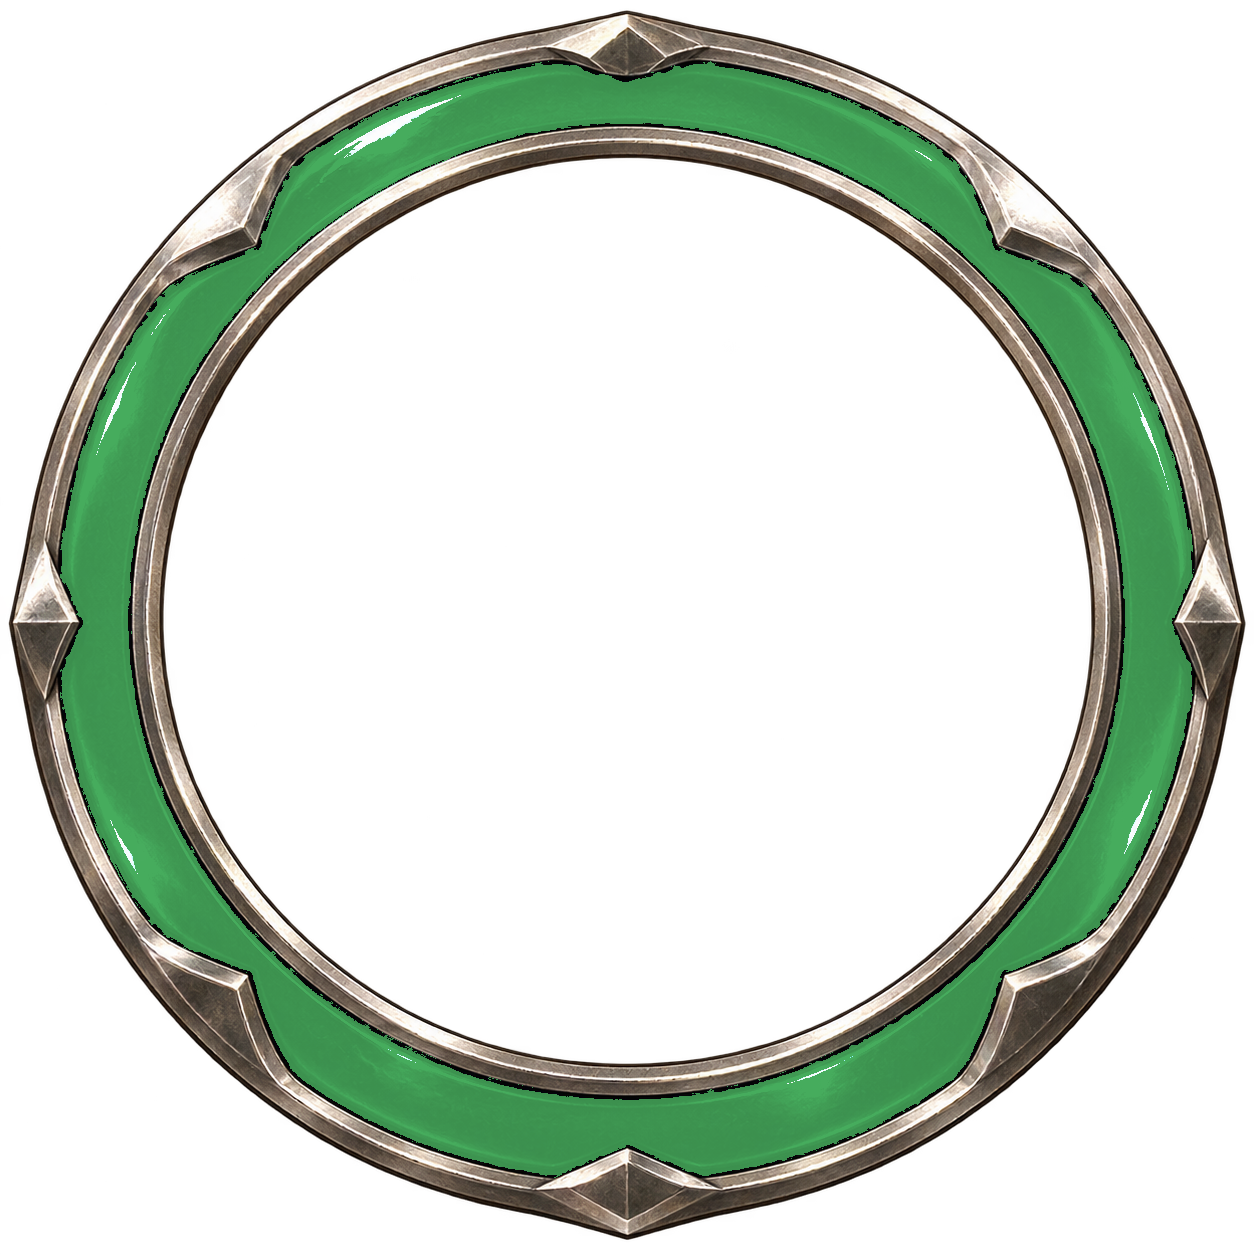
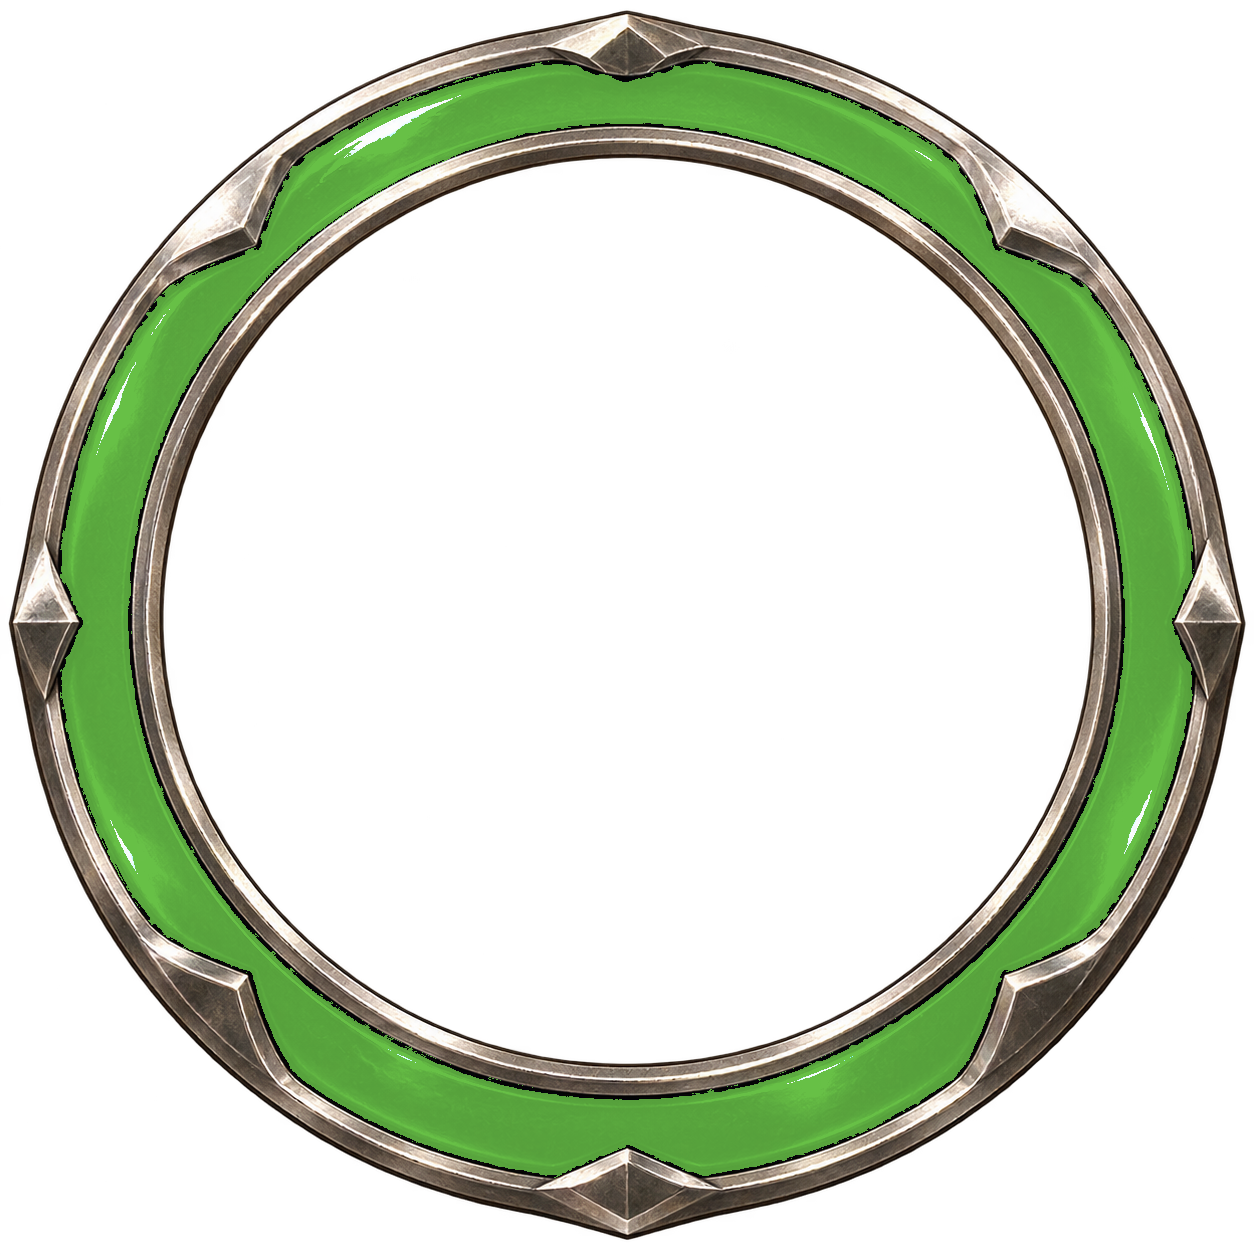
style: separate tag frame category hues

Changed region(s): [[0.0311, 0.0311, 0.9641, 0.933]]

diff --git a/docs/specifications/04.icon_visual_system.md b/docs/specifications/04.icon_visual_system.md
@@ -27,11 +27,11 @@
 
 | 分類 | 対象タグ | エナメル色 |
 | --- | --- | --- |
-| パワー | 武勇・鉄 | 濃い茶 |
-| 魔力 | 魔導・布 | 深い紫 |
-| スピード | 軽業・羽 | 青緑 |
-| 交渉力 | 信用・宝石 | 琥珀 |
-| 運 | 加護・幸運 | 緑 |
+| パワー | 武勇・鉄 | 茶 |
+| 魔力 | 魔導・布 | 紫 |
+| スピード | 軽業・羽 | シアン |
+| 交渉力 | 信用・宝石 | 明るい金 |
+| 運 | 加護・幸運 | 黄緑 |
 | 属性 | 炎・水・雷・活力・範囲 | 真珠色の淡い青灰 |
 
 パワーには炎との誤認を避けるため赤・橙を使用しない。属性フレームは中央の属性図柄を際立たせるため、属性ごとの枠色には分けない。
